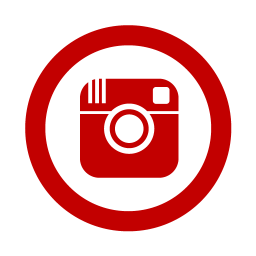
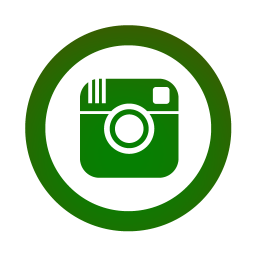
transfer to dreamweaver

diff --git a/about.html b/about.html
@@ -6,15 +6,9 @@
 		<title> About Me | J.Miller </title>
 		<link rel="stylesheet" type="text/css" href="stylesheets/style.css">
 		<link rel="shortcut icon" type="image/gif" href="images/logo.png">
-		<link href="stylesheets/keyframes.css">
-    	<link href="stylesheets/pageTransitions.css">
-		<script src="javascripts/jquery.js"></script>
-		<script src="javascripts/smoothState.js"></script>
-		<script src="javascripts/main.js"></script>
 
-		<a href='home.html'><img src="images/redname.png" width="285" height="85" id="big-logo"></a>
+		<a href='home.html'><img src="images/greenname.png" width="285" height="85" id="big-logo"></a>
 
-	<div id="main" class="m-scene">
 		<div id="nav">
 			<ul>
 				<li><a href="home.html">Home</a></li>
@@ -23,16 +17,15 @@
 				<li><a href="contact.html">Contact</a></li>
 			</ul>
 		</div>
-	</div>
 </head>
 
 <body>
-	<div class="scene_element scene_element--fadein">
 		<br><br><br>
 		<p>
-			I'm Jalen Miller, a student at the University of Oregon pursuing product design. I have a girlfriend who I love who made me this website and she's amazing.
+        <br>
+			I'm Jalen Miller, a student at the University of Oregon pursuing product design.
+            <br><br>
 		</p>
-	</div>
 
 </body>
 

diff --git a/portfolio.html b/portfolio.html
@@ -6,26 +6,17 @@
 		<title> Portfolio | J.Miller </title>
 		<link rel="stylesheet" type="text/css" href="stylesheets/style.css">
 		<link rel="shortcut icon" type="image/gif" href="images/logo.png">
-		<link href="stylesheets/keyframes.css">
-    	<link href="stylesheets/pageTransitions.css">
-		<script src="javascripts/jquery.js"></script>
-		<script src="javascripts/smoothState.js"></script>
-		<script src="javascripts/main.js"></script>
+	
+		<a href='home.html'><img src="images/greenname.png" width="285" height="85" id="big-logo"></a>
 
-		<a href='home.html'><img src="images/redname.png" width="285" height="85" id="big-logo"></a>
-
-	<div id="main" class="m-scene">
-		<div class="scene_element scene_element--fadein">
-			<div id="nav">
-				<ul>
-					<li><a href="home.html">Home</a></li>
-					<li><a href="about.html">About</a></li>
-					<li><a href="portfolio.html">Portfolio</a></li>
-					<li><a href="contact.html">Contact</a></li>
-				</ul>
-			</div>
+		<div id="nav">
+			<ul>
+				<li><a href="home.html">Home</a></li>
+				<li><a href="about.html">About</a></li>
+				<li><a href="portfolio.html">Portfolio</a></li>
+				<li><a href="contact.html">Contact</a></li>
+			</ul>
 		</div>
-	</div>
 </head>
 
 <body>

diff --git a/contact.html b/contact.html
@@ -6,16 +6,11 @@
 		<title> Contact | J.Miller </title>
 		<link rel="stylesheet" type="text/css" href="stylesheets/style.css">
 		<link rel="shortcut icon" type="image/gif" href="images/logo.png">
-		<link href="stylesheets/keyframes.css">
-    	<link href="stylesheets/pageTransitions.css">
-		<script src="javascripts/jquery.js"></script>
-		<script src="javascripts/smoothState.js"></script>
-		<script src="javascripts/main.js"></script>
+	
 
-		<a href='home.html'><img src="images/redname.png" width="285" height="85" id="big-logo"></a>
+		<a href='home.html'><img src="images/greenname.png" width="285" height="85" id="big-logo"></a>
 
-	<div id="main" class="m-scene">
-		<div class="scene_element scene_element--fadein">
+
 			<div id="nav">
 				<ul>
 					<li><a href="home.html">Home</a></li>
@@ -24,15 +19,13 @@
 					<li><a href="contact.html">Contact</a></li>
 				</ul>
 			</div>
-		</div>
-	</div>
 </head>
 
 <body>
 	<br><br><br>
-	<p>
+	<p><br>
 		Phone: 503.484.6210<br>
-		Email: jalenm@uoregon.edu<br>
+		Email: jalenm@uoregon.edu<br><br>
 	</p>
 
 </body>

diff --git a/index.html b/index.html
@@ -6,20 +6,9 @@
   <title> Jalen Miller </title>
   <link rel="stylesheet" type="text/css" href="stylesheets/style.css">
   <link rel="shortcut icon" type="image/gif" href="images/logo.png">
-  <link href="stylesheets/keyframes.css">
-  <link href="stylesheets/pageTransitions.css">
-  <script src="javascripts/jquery.js"></script>
-  <script src="javascripts/smoothState.js"></script>
-  <script src="javascripts/main.js"></script>
 
+  <a href="home.html" class="name"><img src=""></a>
 
-  <div id="main" class="m-scene">
-    <div class="scene_element scene_element--fadein">
-      <div id="nav">
-        <a href="home.html" class="name"><img src=""></a>
-      </div>
-    </div>
-  </div>
 </head>
 
 <style>
@@ -45,7 +34,7 @@
     display: block;
     width: 360px;
     height: 144px;
-    background: url("images/redname.png") no-repeat;
+    background: url("images/greenname.png") no-repeat;
 
   }
 

diff --git a/home.html b/home.html
@@ -6,15 +6,9 @@
 		<title> Home | J.Miller </title>
 		<link rel="stylesheet" type="text/css" href="stylesheets/style.css">
 		<link rel="shortcut icon" type="image/gif" href="images/logo.png">
-		<link href="stylesheets/keyframes.css">
-    	<link href="stylesheets/pageTransitions.css">
-		<script src="javascripts/jquery.js"></script>
-		<script src="javascripts/smoothState.js"></script>
-		<script src="javascripts/main.js"></script>
 
-		<a href='index.html'><img src="images/redname.png" width="285" height="85" id="big-logo"></a>
+		<a href='index.html'><img src="images/greenname.png" width="285" height="85" id="big-logo"></a>
 
-	<div id="main" class="m-scene">
 		<div id="nav">
 			<ul>
 				<li><a href="home.html">Home</a></li>
@@ -23,7 +17,6 @@
 				<li><a href="contact.html">Contact</a></li>
 			</ul>
 		</div>
-	</div>
 </head>
 
 <body>

diff --git a/stylesheets/style.css b/stylesheets/style.css
@@ -27,8 +27,8 @@ p {
 	width: 80%;
 	height: 50%;
 	text-align: center;
-	color: rgba(255, 255, 255, 1.00);
-	background-color: #A00000;
+	color:#007402;
+	background-color:rgba(137,137,137,0.3);
 	padding: 1%;
 	margin-left: auto;
 	margin-right: auto;
@@ -53,6 +53,7 @@ p {
 }
 
 #nav a {
+	color:#000000;
 	display:inline-block;
 	padding-bottom:10px;
 	padding-top:35px;
@@ -60,7 +61,7 @@ p {
 }
 
 #nav a:hover {
-	color:#A00000;
+	color:#007402;
 	text-transform: uppercase;
 	font-family: Futura, "Trebuchet MS", Arial, sans-serif;
 	letter-spacing: 0.3em;
